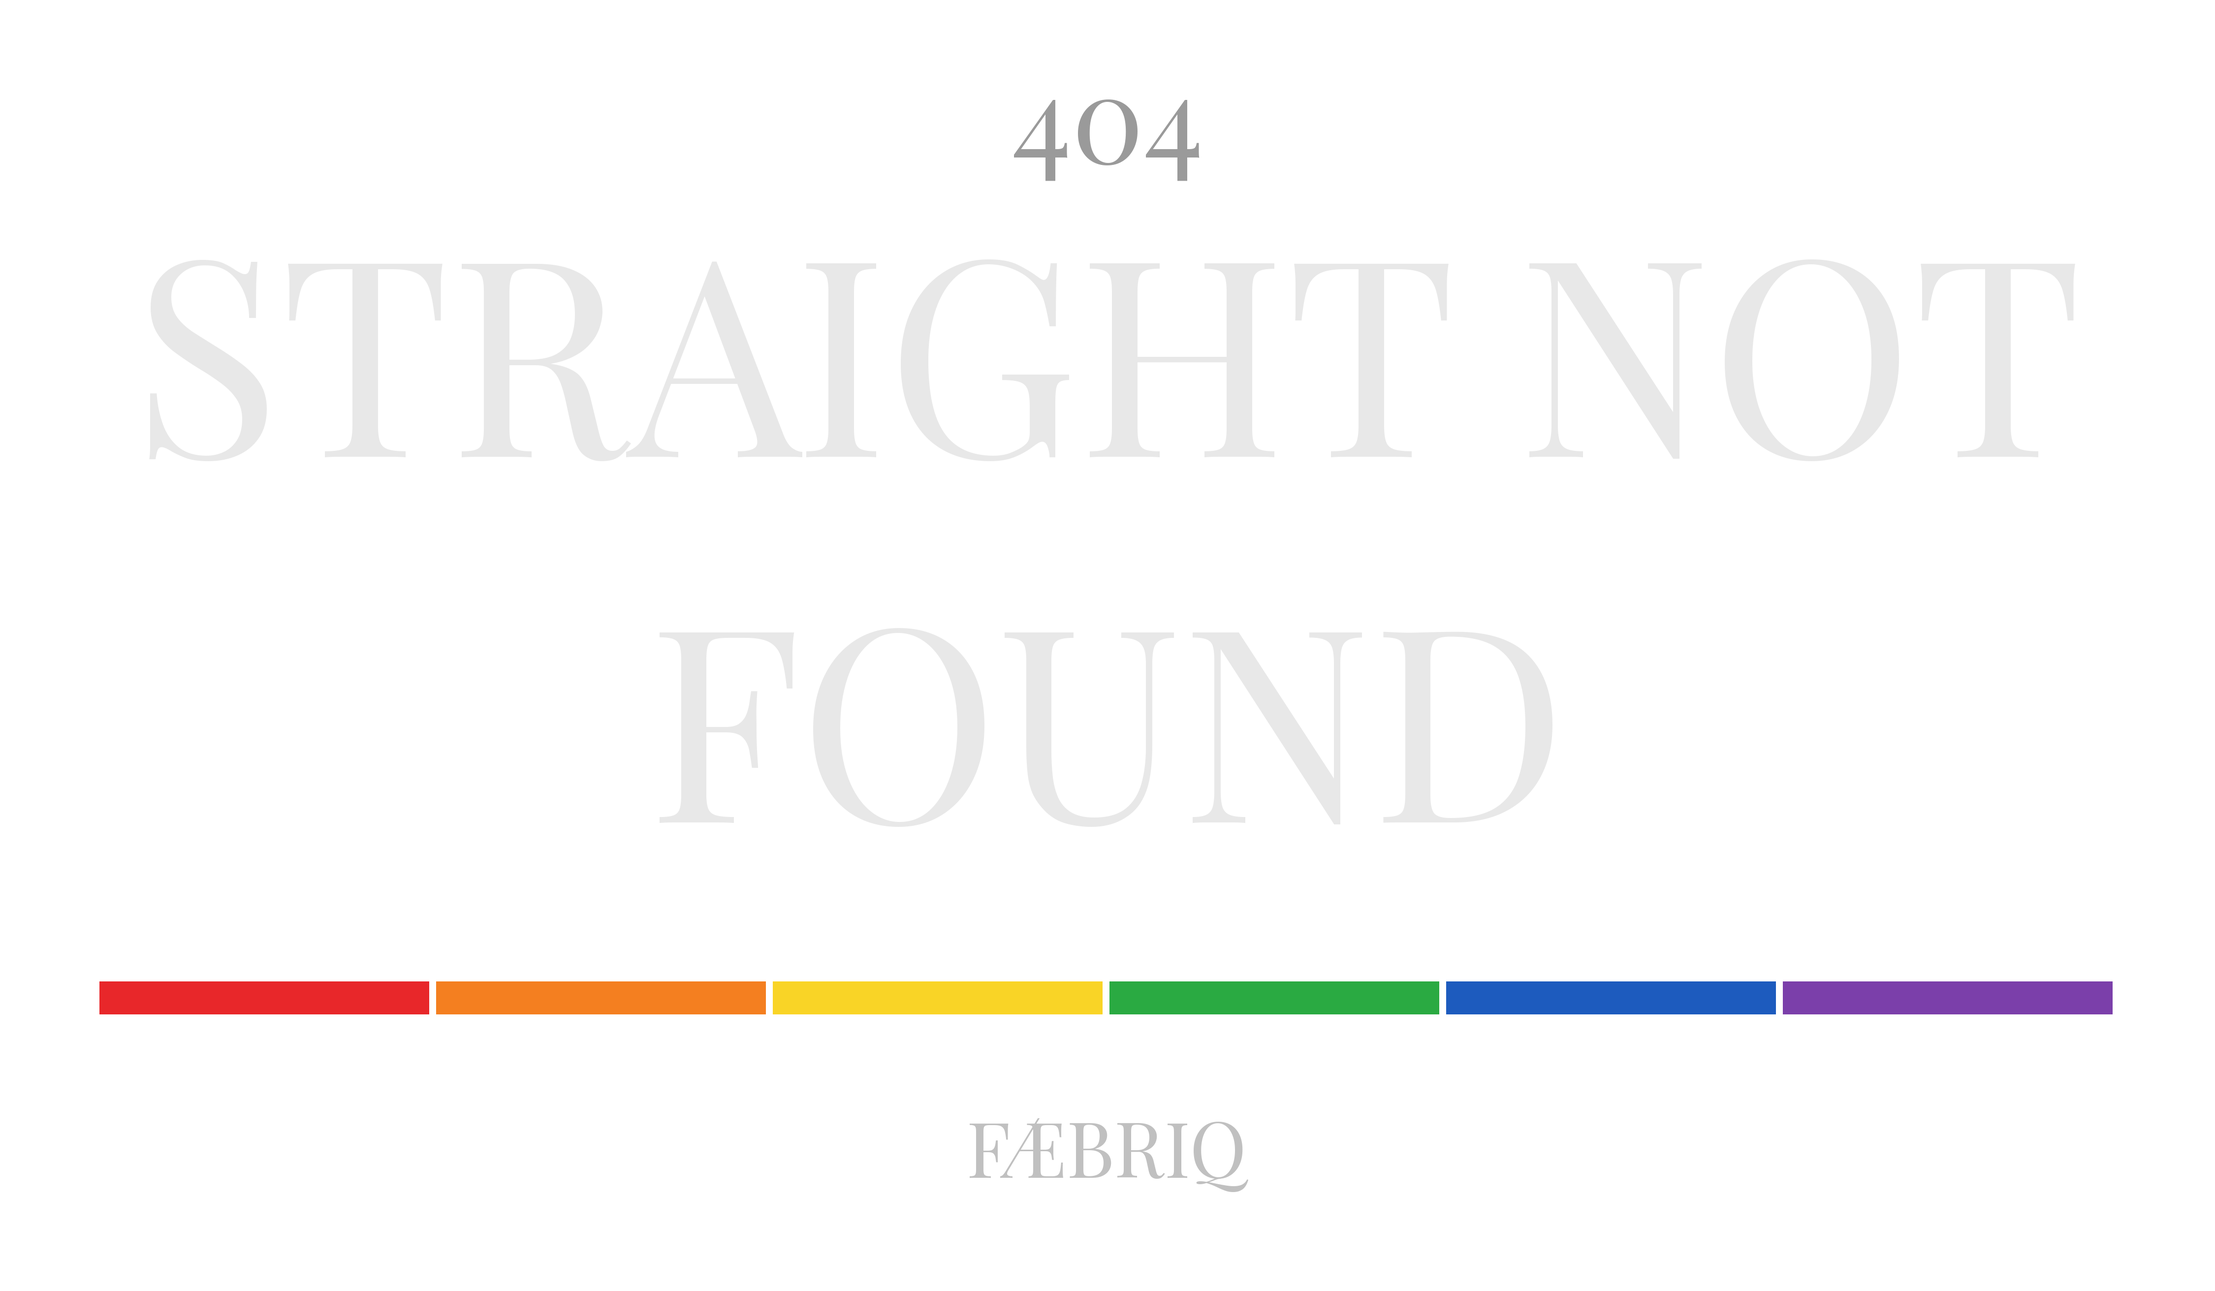
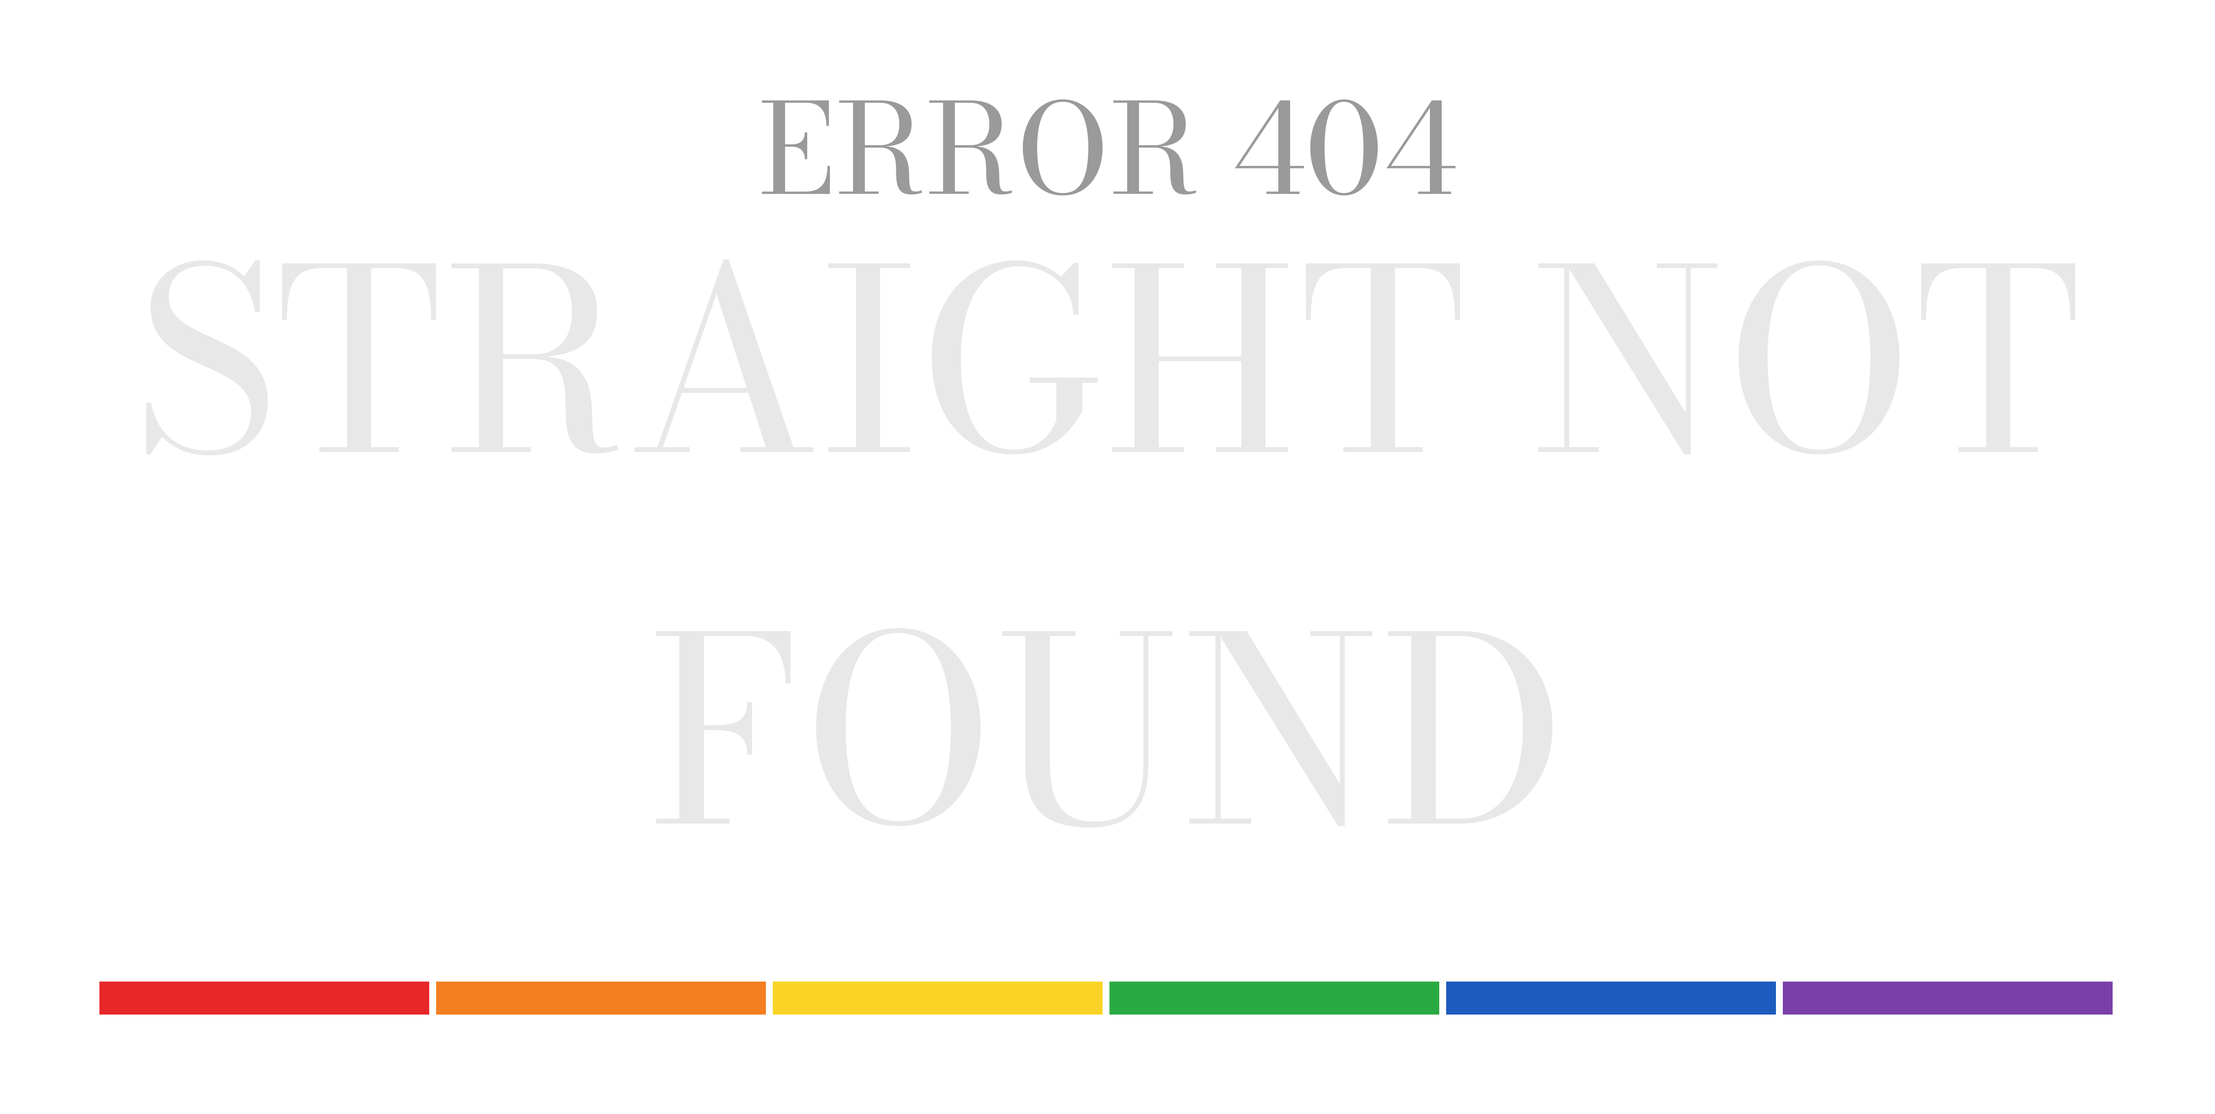
Switch print art to Bodoni, drop wordmark from apparel, add ERROR 404
Wordmark rule corrected and verified against the handoff's own apparel print
files: apparel is phrase + bar only, the FAEBRIQ mark is a sticker/cap element.
The brief's "small mono FAEBRIQ kicker sits under every design" was wrong on both
counts. Tool now takes --product apparel|sticker.

Typeface moves to Bodoni Moda. Playfair is the most-used free display serif and
reads as a default to a design-literate audience; Bodoni keeps the Didone
register without that. It is also the highest-contrast option measured (5.70x vs
Instrument Serif 3.08x), so small elements get a size bump -- testing showed
heavier weights make Didone hairlines worse, not better (400->700 holds ~0.26mm
while contrast climbs to 9.78x). Sample print still needed to confirm.

Bar standardises on the thin sticker model (h/w 0.016, hairline gaps) rather than
the handoff's apparel bar (0.050, no gaps) -- a 3x difference and the source of
the "rainbow too thick" note. Not a print risk: 4.54mm on a 12in tee.

Label is now fitted by cap height rather than width so its length no longer
changes its size, and reads "ERROR 404".

Changed region(s): [[0.0311, 0.8661, 0.9644, 0.928], [0.0311, 0.7424, 0.9644, 0.8042], [0.3422, 0.0619, 0.6533, 0.1856]]

diff --git a/tools/make_print_file.py b/tools/make_print_file.py
@@ -1,17 +1,28 @@
 #!/usr/bin/env python3
 """Generate print-ready FÆBRIQ tagline art: transparent PNG at DTG resolution.
 
-Geometry and typography follow the founder-supplied reference lockup
-("404 Straight Not Found - Sticker.png", 2026-08-20 handoff): Playfair Display
-throughout — phrase, label, and FÆBRIQ kicker — over a thin, near-continuous
-pride-circuit bar slightly wider than the phrase.
+Lockup rules, from the founder handoff (2026-08-20) and confirmed against the
+apparel print files in it:
 
-Colour stays on the settled tokens in `tokens/colors.css` (muted circuit set),
-NOT the reference's pure pride-flag hex. Decision: the handoff governs type and
-geometry, the tokens govern colour.
+  apparel  ->  phrase + pride-circuit bar.   NO FÆBRIQ wordmark.
+  sticker  ->  phrase + bar + FÆBRIQ wordmark.
+
+The wordmark is a sticker/cap element only — the apparel print files in the
+handoff ("Code It. Serve It. - White (Print)", "Off The Clock...") carry no
+wordmark at all.
+
+Bar geometry follows the *sticker* model deliberately: thin (height ~1.6% of bar
+width) with hairline gaps. The handoff's apparel files use a bar ~3x thicker
+(5.0%) with no gaps; the founder's call is that this reads too heavy, so the thin
+bar is standard everywhere now.
+
+Type is Bodoni Moda. Colour stays on the settled tokens in `tokens/colors.css`
+(muted circuit set), NOT the handoff's pure pride-flag hex — the handoff governs
+type and geometry, the tokens govern colour.
 
     python3 tools/make_print_file.py --line1 "STRAIGHT NOT" --line2 FOUND \
-        --label 404 --out assets/print-art/404-straight-not-found-light-4500.png
+        --label "ERROR 404" --product apparel \
+        --out assets/print-art/404-straight-not-found-light-4500.png
 
 The legacy 820x420 JPGs in assets/print-art/ are previews only — too small, and
 their opaque #0D0D0D field prints as a dark box on the garment.
@@ -28,18 +39,21 @@ CIRCUIT = ["#E8272A", "#F47F20", "#F9D426", "#2AAA42", "#1D5BBE", "#7B3FAA"]
 INK_LIGHT = {"text": "#E8E8E8", "label": "#9A9A9A", "mark": "#C0C0C0"}
 INK_DARK = {"text": "#0D0D0D", "label": "#9A9A9A", "mark": "#5F5F5F"}
 
-# Lockup proportions measured from the reference, normalised to phrase-line-1
-# width (L) with the origin at the top of the label.
+# Lockup proportions measured from the reference sticker, normalised to
+# phrase-line-1 width (L), origin at the top of the label.
 SRC = dict(
-    label_w=0.0985, label_y=0.0000,
+    label_h=0.0429, label_y=0.0000,
     l1_w=1.0000, l1_y=0.0818,
     l2_w=0.4710, l2_y=0.2708,
     bar_w=1.0326, bar_y=0.4519, bar_h=0.01615,   # bar_h is a fraction of bar_w
     mark_w=0.1446, mark_y=0.5218,
-    total_h=0.5592,
     stripe_frac=0.16333,   # stripe width as a fraction of bar width
     gap_frac=0.00369,      # gap width as a fraction of bar width
 )
+# Bodoni is a high-contrast Didone: its hairlines thin out faster than the cap
+# height shrinks, so small elements get a safety bump to stay printable on
+# cotton (~0.33mm minimum stroke is the working rule of thumb).
+SMALL_ELEMENT_BOOST = 1.15
 FONT_CSS = "https://fonts.googleapis.com/css?family={}"
 CACHE = os.path.join(os.path.dirname(os.path.abspath(__file__)), ".fontcache")
 
@@ -60,32 +74,43 @@ def font_path(family, weight, filename):
     return dest
 
 
-def fit(ImageFont, path, text, target_w):
-    """Binary-search the font size whose rendered width matches target_w."""
+def _fit(ImageFont, path, text, target, by):
+    """Binary-search the font size whose rendered width/height matches target."""
     lo, hi = 4.0, 6000.0
     for _ in range(60):
         mid = (lo + hi) / 2
         f = ImageFont.truetype(path, max(1, int(round(mid))))
-        lo, hi = (mid, hi) if f.getlength(text) < target_w else (lo, mid)
+        bb = f.getbbox(text)
+        got = f.getlength(text) if by == "w" else (bb[3] - bb[1])
+        lo, hi = (mid, hi) if got < target else (lo, mid)
     return ImageFont.truetype(path, max(1, int(round(lo))))
 
 
-def build(line1, line2, out, label=None, width=4500, margin_frac=0.045, ink="light"):
+def build(line1, line2, out, label=None, width=4500, margin_frac=0.045,
+          ink="light", product="apparel"):
     from PIL import Image, ImageDraw, ImageFont
 
-    serif = font_path("Playfair Display", None, "PlayfairDisplay-Regular.ttf")
+    serif = font_path("Bodoni Moda", None, "BodoniModa-Regular.ttf")
     col = INK_LIGHT if ink == "light" else INK_DARK
+    wordmark = product == "sticker"
 
     # The bar is the widest element, so it sets the usable width.
     L = width * (1 - 2 * margin_frac) / SRC["bar_w"]
-    f_l1 = fit(ImageFont, serif, line1, SRC["l1_w"] * L)
-    f_l2 = fit(ImageFont, serif, line2, SRC["l2_w"] * L)
-    f_mark = fit(ImageFont, serif, "FÆBRIQ", SRC["mark_w"] * L)
-    f_lab = fit(ImageFont, serif, label, SRC["label_w"] * L) if label else None
+    f_l1 = _fit(ImageFont, serif, line1, SRC["l1_w"] * L, "w")
+    f_l2 = _fit(ImageFont, serif, line2, SRC["l2_w"] * L, "w")
+    # Label is fitted by cap height, not width, so it stays a consistent size
+    # regardless of how long the label text is ("404" vs "ERROR 404").
+    f_lab = (_fit(ImageFont, serif, label, SRC["label_h"] * L * SMALL_ELEMENT_BOOST, "h")
+             if label else None)
+    f_mark = (_fit(ImageFont, serif, "FÆBRIQ", SRC["mark_w"] * L * SMALL_ELEMENT_BOOST, "w")
+              if wordmark else None)
 
+    bar_h = SRC["bar_h"] * SRC["bar_w"] * L
+    content_h = (SRC["mark_y"] * L + f_mark.getbbox("FÆBRIQ")[3] - f_mark.getbbox("FÆBRIQ")[1]
+                 if wordmark else SRC["bar_y"] * L + bar_h)
     pad = width * margin_frac
     top = pad if label else pad - SRC["l1_y"] * L
-    height = int(round(SRC["total_h"] * L + 2 * pad - (0 if label else SRC["l1_y"] * L)))
+    height = int(round(content_h + 2 * pad - (0 if label else SRC["l1_y"] * L)))
     im = Image.new("RGBA", (width, height), (0, 0, 0, 0))
     d = ImageDraw.Draw(im)
     cx = width / 2
@@ -103,13 +128,14 @@ def build(line1, line2, out, label=None, width=4500, margin_frac=0.045, ink="lig
     # pride-circuit bar: thin, near-continuous, marginally wider than the phrase
     bar_w = SRC["bar_w"] * L
     sw, gap = SRC["stripe_frac"] * bar_w, SRC["gap_frac"] * bar_w
-    bh = SRC["bar_h"] * bar_w
     bx, by = cx - bar_w / 2, top + SRC["bar_y"] * L
     for i, c in enumerate(CIRCUIT):
         x0 = bx + i * (sw + gap)
-        d.rectangle([x0, by, x0 + sw, by + bh], fill=c)
+        d.rectangle([x0, by, x0 + sw, by + bar_h], fill=c)
 
-    line("mark_y", "FÆBRIQ", f_mark, col["mark"])
+    if wordmark:
+        line("mark_y", "FÆBRIQ", f_mark, col["mark"])
+
     im.save(out, "PNG", dpi=(300, 300))
     return im.size
 
@@ -119,11 +145,14 @@ if __name__ == "__main__":
                                 formatter_class=argparse.RawDescriptionHelpFormatter)
     p.add_argument("--line1", required=True)
     p.add_argument("--line2", required=True)
-    p.add_argument("--label", help="small serif label above the phrase, e.g. 404")
+    p.add_argument("--label", help='small serif label above the phrase, e.g. "ERROR 404"')
     p.add_argument("--out", required=True)
     p.add_argument("--width", type=int, default=4500)
+    p.add_argument("--product", choices=["apparel", "sticker"], default="apparel",
+                   help="apparel omits the FÆBRIQ wordmark; sticker includes it")
     p.add_argument("--ink", choices=["light", "dark"], default="light",
                    help="light = for dark garments (default); dark = for light garments")
     a = p.parse_args()
-    w, h = build(a.line1, a.line2, a.out, label=a.label, width=a.width, ink=a.ink)
-    print(f"wrote {a.out}  {w}x{h}  RGBA 300dpi  ink={a.ink}")
+    w, h = build(a.line1, a.line2, a.out, label=a.label, width=a.width,
+                 ink=a.ink, product=a.product)
+    print(f"wrote {a.out}  {w}x{h}  RGBA 300dpi  ink={a.ink}  product={a.product}")

diff --git a/MEMORY.md b/MEMORY.md
@@ -57,7 +57,15 @@
 - **Colour did NOT revert.** The reference carries pure pride-flag hex (`#FF0000 #FF9800 #FFFF00 #008B00 #0000FF #8B008B`); Maurice explicitly chose to keep the muted circuit set and only thin the bar. Standing rule now: **the handoff governs type and geometry, `tokens/colors.css` governs colour.**
 - **Bar geometry changed** — measured from the reference: stripe gaps ≈0.37% of bar width (hairline; the old art used chunky ~2.4% gaps), bar height ≈1.6% of bar width, and the bar sits ≈1.03× *wider* than the phrase line above it. Maurice's read was that the rainbow was too thick across the older designs — confirmed by measurement.
 - Also from the reference: tagline text is **ALL CAPS**, and the small label + FÆBRIQ kicker are set in Playfair too, not mono — which contradicted the brief's "small mono FÆBRIQ kicker" line. Maurice chose to follow the zip; brief updated.
-- `tools/make_print_file.py` rewritten to this spec (Playfair via Google Fonts cache, reference proportions, thin near-continuous bar, muted tokens). Regenerated `404-straight-not-found-light-4500.png` — 4500×2623, verified transparent, bar h/w 0.01638 vs reference 0.01615.
+- `tools/make_print_file.py` rewritten to this spec (reference proportions, thin near-continuous bar, muted tokens).
+
+### Later the same day — Bodoni, no wordmark on apparel, "ERROR 404"
+- **Typeface is now Bodoni Moda, not Playfair.** Maurice asked which font would be most sellable; research says Playfair is the most-used free display serif and reads as a default/cliché to design-literate audiences (his are devs + queer creatives — the people most likely to clock it). Bodoni keeps the Didone register with far less ubiquity. **Measured caveat: Bodoni is the highest-contrast option** (5.70× vs Instrument Serif 3.08×), so hairlines are least forgiving on fabric.
+- **Tested and disproved my own assumption:** going heavier does NOT fix Didone hairlines. Bodoni 400→700 leaves the thin strokes at ~0.26mm while contrast climbs 5.70×→9.78× — in a Didone, weight thickens stems, not hairlines. The lever that works is **size**: at 0.55″ cap the hairline reaches 0.36mm, matching Instrument Serif at 0.40″. Hence `SMALL_ELEMENT_BOOST` in the tool. ~0.33mm is a working rule of thumb for DTG minimum stroke, **not a supplier spec — a sample print is the real test.**
+- **Wordmark rule, confirmed by Maurice and verified against his own files: apparel carries NO FÆBRIQ wordmark.** It's a sticker/cap element only. Both apparel print files in the handoff (`Code It. Serve It. - White (Print)`, `Off The Clock. Still Iconic. - Black (Print)`) are phrase + bar, nothing else. The earlier brief line "a small mono FÆBRIQ kicker sits under every design" was wrong on both counts (not mono, not every design). Tool now takes `--product apparel|sticker`.
+- **The thick-bar source is identified.** Apparel print files in the handoff use bar height/width **0.050 with zero gaps**; the 404 sticker uses **0.016 with hairline gaps** — 3× difference. That's exactly what Maurice was reacting to with "the rainbow is too thick in a lot of designs." Standard is now the thin sticker model everywhere. **No print risk**: the thin bar is 5.67mm tall at 15″, 4.54mm on a 12″ tee, roughly 14× the DTG minimum. Thin visually, not technically.
+- Maurice reopened the "Error" question and chose **"Error 404: Straight Not Found"** (word order "ERROR 404", not the earlier "404 ERROR"). Label is now fitted by **cap height rather than width**, so label length no longer changes its size.
+- Regenerated `404-straight-not-found-light-4500.png` as apparel: 4500×2263, transparent, bar h/w 0.01638, no wordmark.
 - Network note: `pypi.org`/`files.pythonhosted.org` are in the proxy's noProxy list so `pip install` works, and `fonts.googleapis.com` + `fonts.gstatic.com` are reachable. But `openaipublic.azureedge.net` is blocked (403), so **Whisper model weights can't be downloaded** — no local speech-to-text in this environment. `ffmpeg` is not preinstalled but installs via `apt-get install -y --no-install-recommends ffmpeg` (the plain install fails on 404s for GPU driver recommends).
 - **Remote branch deletion is not available from this session** — `git push origin --delete` returns HTTP 403 (this environment's git credential doesn't permit ref deletion), and the GitHub MCP toolset has no delete-branch equivalent (`create_branch` exists, no counterpart). All 7 leftover `claude/*` session branches identified for cleanup are still confirmed safe-to-delete in principle (see plan file / this session's chat), but actual deletion needs to happen through the GitHub web UI or another path with broader permissions.
 - **Stale-branch research fully resolved this session** (all 7 branches checked against default): `brand-logos-card-eaYNE` and `faebriq-audit-theme-fixes-ld6bm4` are 0 commits ahead (fully redundant). `shopify-update-status-log-wfo3gx`'s PRODUCTION_BRIEF.md content is an older, superseded version of what's on default now. `ecstatic-fermi-pnuqzh`'s legal-policy/contact-email changes are already byte-identical on default, and its sticker-consolidation plan (delete 3 singles, add a 5-pack bundle) was never executed — live catalog instead evolved a different way (5 active single stickers + a separate "Sticker Sheet" product, old bundle now archived), so the branch's plan is moot, not pending. `shopify-product-progress-o8wxkv`'s sticker-pricing note ("$9 sheet") matches the now-archived bundle's price exactly, confirming it too was superseded by later catalog changes. `great-wozniak-Ke10Y`'s components (`Button`/`Badge`/`Card`/`CircuitRule`/`Input`) all already exist on default under a nested-folder convention (`components/core/Card/Card.jsx` etc.) — nothing unique to salvage. Only `fervent-dijkstra-pnoEZ` has an open question: its color change conflicts with the settled muted-ROYGBIV direction (don't merge), but it carries 4 new mockup PNGs unrelated to color that might be worth salvaging before deletion.

diff --git a/PRODUCTION_BRIEF.md b/PRODUCTION_BRIEF.md
@@ -6,7 +6,15 @@ Rainbow — **colour** (confirmed, do not change): `#E8272A #F47F20 #F9D426 #2AA
 
 Fonts — **superseded 2026-08-20, see below.** ~~(confirmed, all-serif as of v6): **Instrument Serif** for every tagline, no exceptions — including "Deploying Identity v2.0," which previously used mono. A small **mono** "FÆBRIQ" kicker sits under every design.~~
 
-**Print art now uses Playfair Display throughout** — phrase, the small label (e.g. "404"), *and* the FÆBRIQ kicker. No mono anywhere in the print files. Identified from the founder's 2026-08-20 reference lockup by shape comparison (0.905 overlap vs Playfair; Instrument Serif scored 0.384 — not a match). This reverses the Instrument Serif decision made 2026-08-19 **for print art specifically**; the website/theme still runs Instrument Serif, so treat that as a deliberate two-typeface split until told otherwise. Set all tagline text in **CAPS**, matching the reference. **Bold blocky** (not serif) stays on caps only — a fine serif blurs in embroidery thread at that scale; the cap uses the wordmark, not a tagline, so this doesn't conflict.
+**Print art uses Bodoni Moda throughout** — phrase, the small label (e.g. "ERROR 404"), and the FÆBRIQ wordmark where one appears. No mono anywhere in the print files. Set all tagline text in **CAPS**, matching the handoff.
+
+The 2026-08-20 handoff was set in Playfair Display (identified by shape comparison — 0.905 overlap vs Playfair, 0.384 vs Instrument Serif). Founder chose Bodoni Moda over it: same Didone register, far less ubiquitous. Note Bodoni is higher-contrast, so its hairlines are the least forgiving on fabric of the options considered — small elements carry a size bump (see `SMALL_ELEMENT_BOOST` in the tool) to stay above the ~0.33mm DTG minimum. **Confirm with a sample print before committing the catalog.**
+
+This reverses the Instrument Serif decision of 2026-08-19 **for print art only** — the website/theme still runs Instrument Serif. Treat that as a deliberate split: Didone on product, Instrument Serif on screen.
+
+### Wordmark rule (confirmed 2026-08-20)
+
+**Apparel and other products carry NO FÆBRIQ wordmark** — phrase + circuit bar, nothing else. The wordmark appears on **stickers and caps only**. Verified against the handoff's own apparel print files (`Code It. Serve It. - White (Print)`, `Off The Clock. Still Iconic. - Black (Print)`): both are phrase + bar with no wordmark. The earlier "a small mono FÆBRIQ kicker sits under every design" line was wrong on both counts. `tools/make_print_file.py --product apparel|sticker` encodes this. **Bold blocky** (not serif) stays on caps only — a fine serif blurs in embroidery thread at that scale; the cap uses the wordmark, not a tagline, so this doesn't conflict.
 
 ## 1. Catalog at a glance
 
